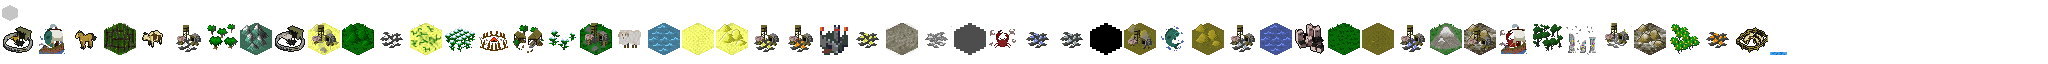
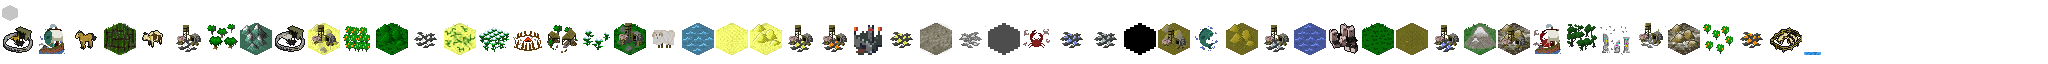
GameMap: Implement oranges tile

Changed region(s): [[0.1562, 0.3438, 0.9062, 0.875]]

diff --git a/core/src/main/java/me/rhin/openciv/game/map/tile/TileType.java b/core/src/main/java/me/rhin/openciv/game/map/tile/TileType.java
@@ -30,6 +30,7 @@ public enum TileType {
 	IRON(TextureEnum.TILE_IRON, TileLayer.MIDDLE, TileProperty.RESOURCE, TileProperty.MINEABLE),
 	COPPER(TextureEnum.TILE_COPPER, TileLayer.MIDDLE, TileProperty.RESOURCE, TileProperty.MINEABLE),
 	COTTON(TextureEnum.TILE_COTTON, TileLayer.MIDDLE, TileProperty.RESOURCE, TileProperty.HARVESTABLE),
+	ORANGES(TextureEnum.TILE_ORANGES, TileLayer.MIDDLE, TileProperty.RESOURCE, TileProperty.HARVESTABLE),
 	GEMS(TextureEnum.TILE_GEMS, TileLayer.MIDDLE, TileProperty.RESOURCE, TileProperty.MINEABLE),
 	MARBLE(TextureEnum.TILE_MARBLE, TileLayer.MIDDLE, TileProperty.RESOURCE, TileProperty.QUARRY),
 	FISH(TextureEnum.TILE_FISH, TileLayer.MIDDLE, TileProperty.RESOURCE, TileProperty.WATER,
@@ -46,6 +47,7 @@ public enum TileType {
 	SILVER_IMPROVED(TextureEnum.TILE_SILVER_IMPROVED, TileLayer.MIDDLE, TileProperty.IMPROVEMENT),
 	GOLD_IMPROVED(TextureEnum.TILE_GOLD_IMPROVED, TileLayer.MIDDLE, TileProperty.IMPROVEMENT),
 	COTTON_IMPROVED(TextureEnum.TILE_COTTON_IMPROVED, TileLayer.MIDDLE, TileProperty.IMPROVEMENT),
+	ORANGES_IMPROVED(TextureEnum.TILE_ORANGES_IMPROVED, TileLayer.MIDDLE, TileProperty.IMPROVEMENT),
 	IRON_IMPROVED(TextureEnum.TILE_IRON_IMPROVED, TileLayer.MIDDLE, TileProperty.IMPROVEMENT),
 	COPPER_IMPROVED(TextureEnum.TILE_COPPER_IMPROVED, TileLayer.MIDDLE, TileProperty.IMPROVEMENT),
 	GRASS_HILL_MINE(TextureEnum.TILE_GRASS_HILL_MINE, TileLayer.BASE, TileProperty.IMPROVEMENT),

diff --git a/server/src/main/java/me/rhin/openciv/server/game/map/tile/TileType.java b/server/src/main/java/me/rhin/openciv/server/game/map/tile/TileType.java
@@ -355,6 +355,27 @@ public enum TileType implements Comparable<TileType> {
 			return new TileType[] { TileType.GRASS, TileType.PLAINS, TileType.DESERT, TileType.FLOODPLAINS };
 		}
 	},
+	ORANGES(TileLayer.MIDDLE, TileProperty.LUXURY) {
+		@Override
+		public StatLine getStatLine() {
+			StatLine statLine = new StatLine();
+			statLine.setValue(Stat.GOLD_GAIN, 1);
+			statLine.setValue(Stat.FOOD_GAIN, 1);
+			return statLine;
+		}
+
+		@Override
+		public List<TileImprovement> getImprovements() {
+			ArrayList<TileImprovement> improvements = new ArrayList<>();
+			improvements.add(new PlantationImprovement(TileType.ORANGES_IMPROVED, 5));
+			return improvements;
+		}
+
+		@Override
+		public TileType[] getSpawnTileTypes() {
+			return new TileType[] { TileType.GRASS, TileType.PLAINS };
+		}
+	},
 	GEMS(TileLayer.MIDDLE, TileProperty.LUXURY) {
 		@Override
 		public StatLine getStatLine() {
@@ -548,6 +569,15 @@ public enum TileType implements Comparable<TileType> {
 			StatLine statLine = new StatLine();
 			statLine.addValue(Stat.GOLD_GAIN, 4);
 			statLine.addValue(Stat.MORALE_TILE, 10);
+			return statLine;
+		}
+	},
+	ORANGES_IMPROVED(TileLayer.MIDDLE, TileProperty.IMPROVEMENT) {
+		@Override
+		public StatLine getStatLine() {
+			StatLine statLine = new StatLine();
+			statLine.addValue(Stat.GOLD_GAIN, 3);
+			statLine.addValue(Stat.FOOD_GAIN, 2);
 			return statLine;
 		}
 	},

diff --git a/core/src/main/java/me/rhin/openciv/ui/window/type/GameOverlay.java b/core/src/main/java/me/rhin/openciv/ui/window/type/GameOverlay.java
@@ -100,6 +100,7 @@ public class GameOverlay extends AbstractWindow implements ResizeListener, TileS
 	public void setHoveredTile(Tile tile) {
 		if (!tile.isDiscovered() && Civilization.SHOW_FOG) {
 			tileNameLabel.setText("Undiscovered");
+			geographyNameLabel.setText("");
 			//tileNameLabel.setText("[" + tile.getGridX() + "," + tile.getGridY() + "] Undiscovered");
 			// tileNameLabel.setSize(0, 15);
 			clearTileStatInfo();

diff --git a/core/src/main/java/me/rhin/openciv/ui/game/StatusBar.java b/core/src/main/java/me/rhin/openciv/ui/game/StatusBar.java
@@ -47,7 +47,7 @@ public class StatusBar extends Actor implements PlayerStatUpdateListener, NextTu
 		goldIcon.setSize(16, 16);
 		this.goldLabel = new CustomLabel("0");
 
-		this.tradeDescLabel = new CustomLabel("Trade Routes:");
+		this.tradeDescLabel = new CustomLabel("Trade:");
 		this.tradeIcon = TextureEnum.ICON_BARREL.sprite();
 		tradeIcon.setSize(16, 16);
 		this.tradeLabel = new CustomLabel("0/0");

diff --git a/core/src/main/java/me/rhin/openciv/Civilization.java b/core/src/main/java/me/rhin/openciv/Civilization.java
@@ -22,7 +22,7 @@ import me.rhin.openciv.ui.window.WindowManager;
 
 public class Civilization extends Game {
 
-	public static final boolean SHOW_FOG = false;
+	public static final boolean SHOW_FOG = true;
 	public static final boolean DEBUG_GL = false;
 	public static final boolean DEBUG_BOUNDING_BOXES = false; // NOTE: Overlay only.
 	public static final String LOG_TAG = "OpenCiv-INFO";

diff --git a/core/src/main/java/me/rhin/openciv/asset/TextureEnum.java b/core/src/main/java/me/rhin/openciv/asset/TextureEnum.java
@@ -46,6 +46,7 @@ public enum TextureEnum {
 	TILE_GOLD_IMPROVED,
 	TILE_COTTON_IMPROVED,
 	TILE_ORANGES,
+	TILE_ORANGES_IMPROVED,
 	TILE_HORSES_IMPROVED,
 	TILE_IRON_IMPROVED,
 	TILE_COPPER_IMPROVED,
